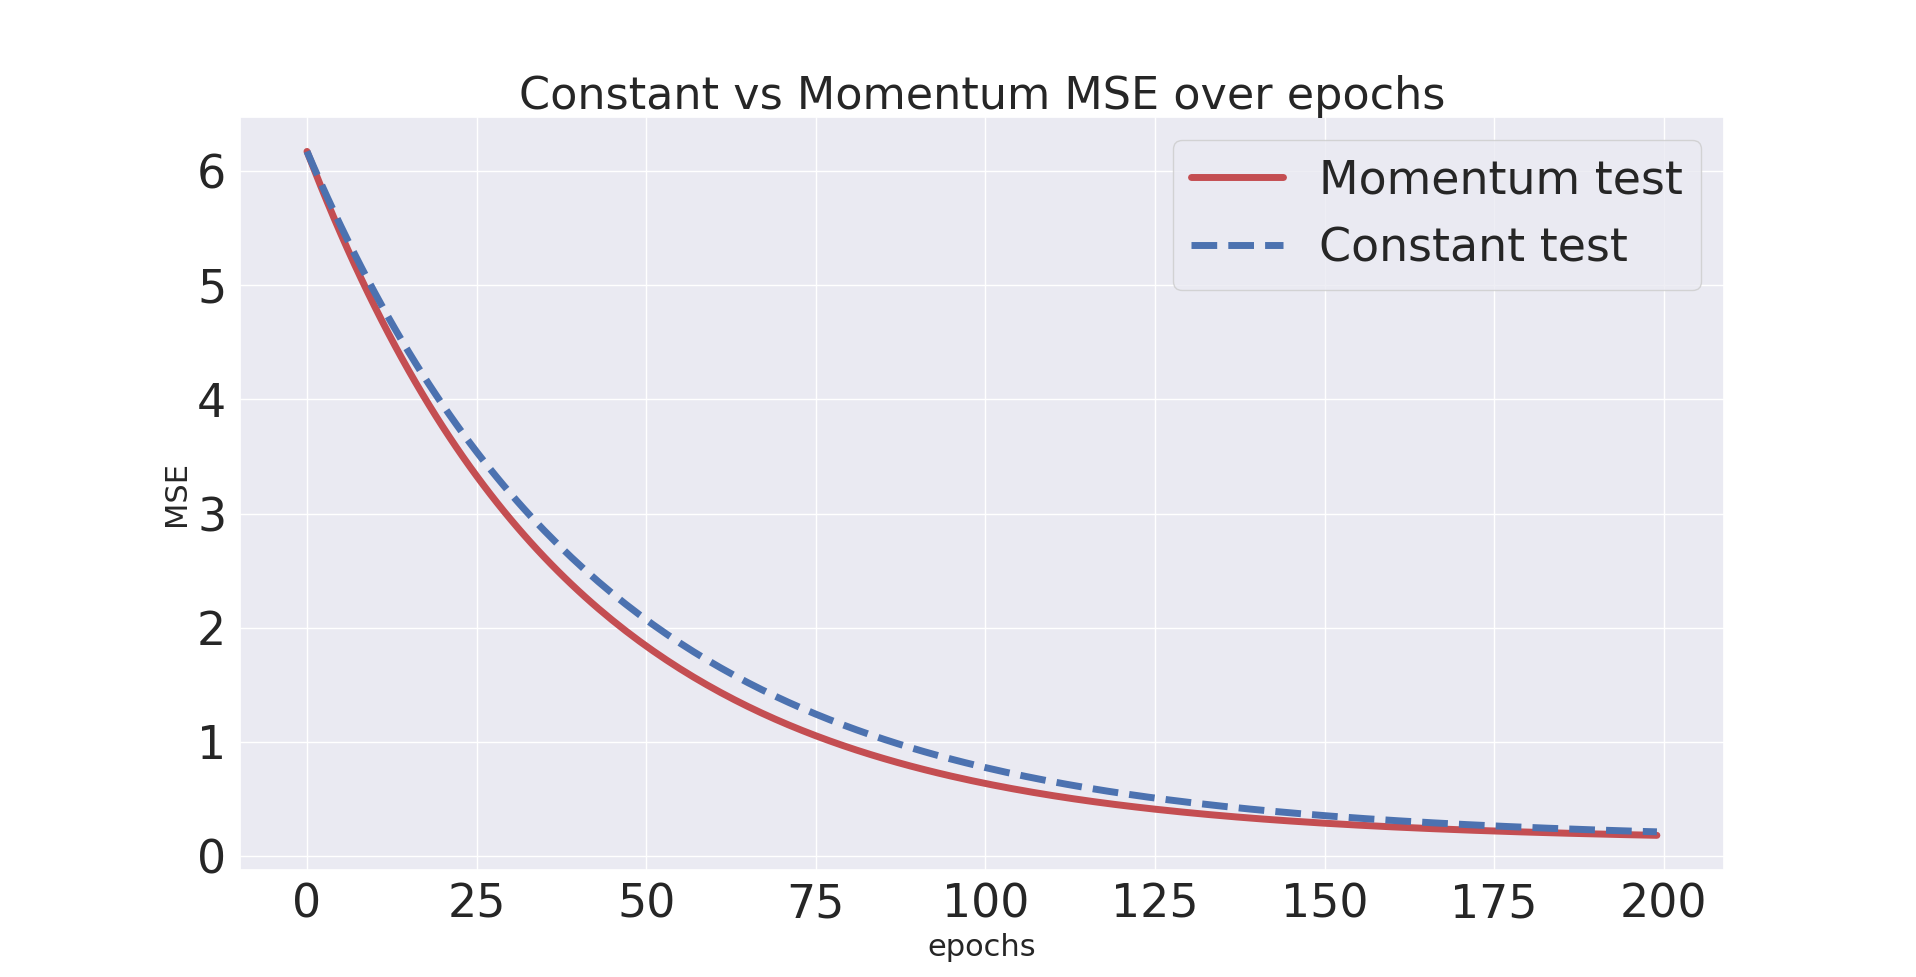
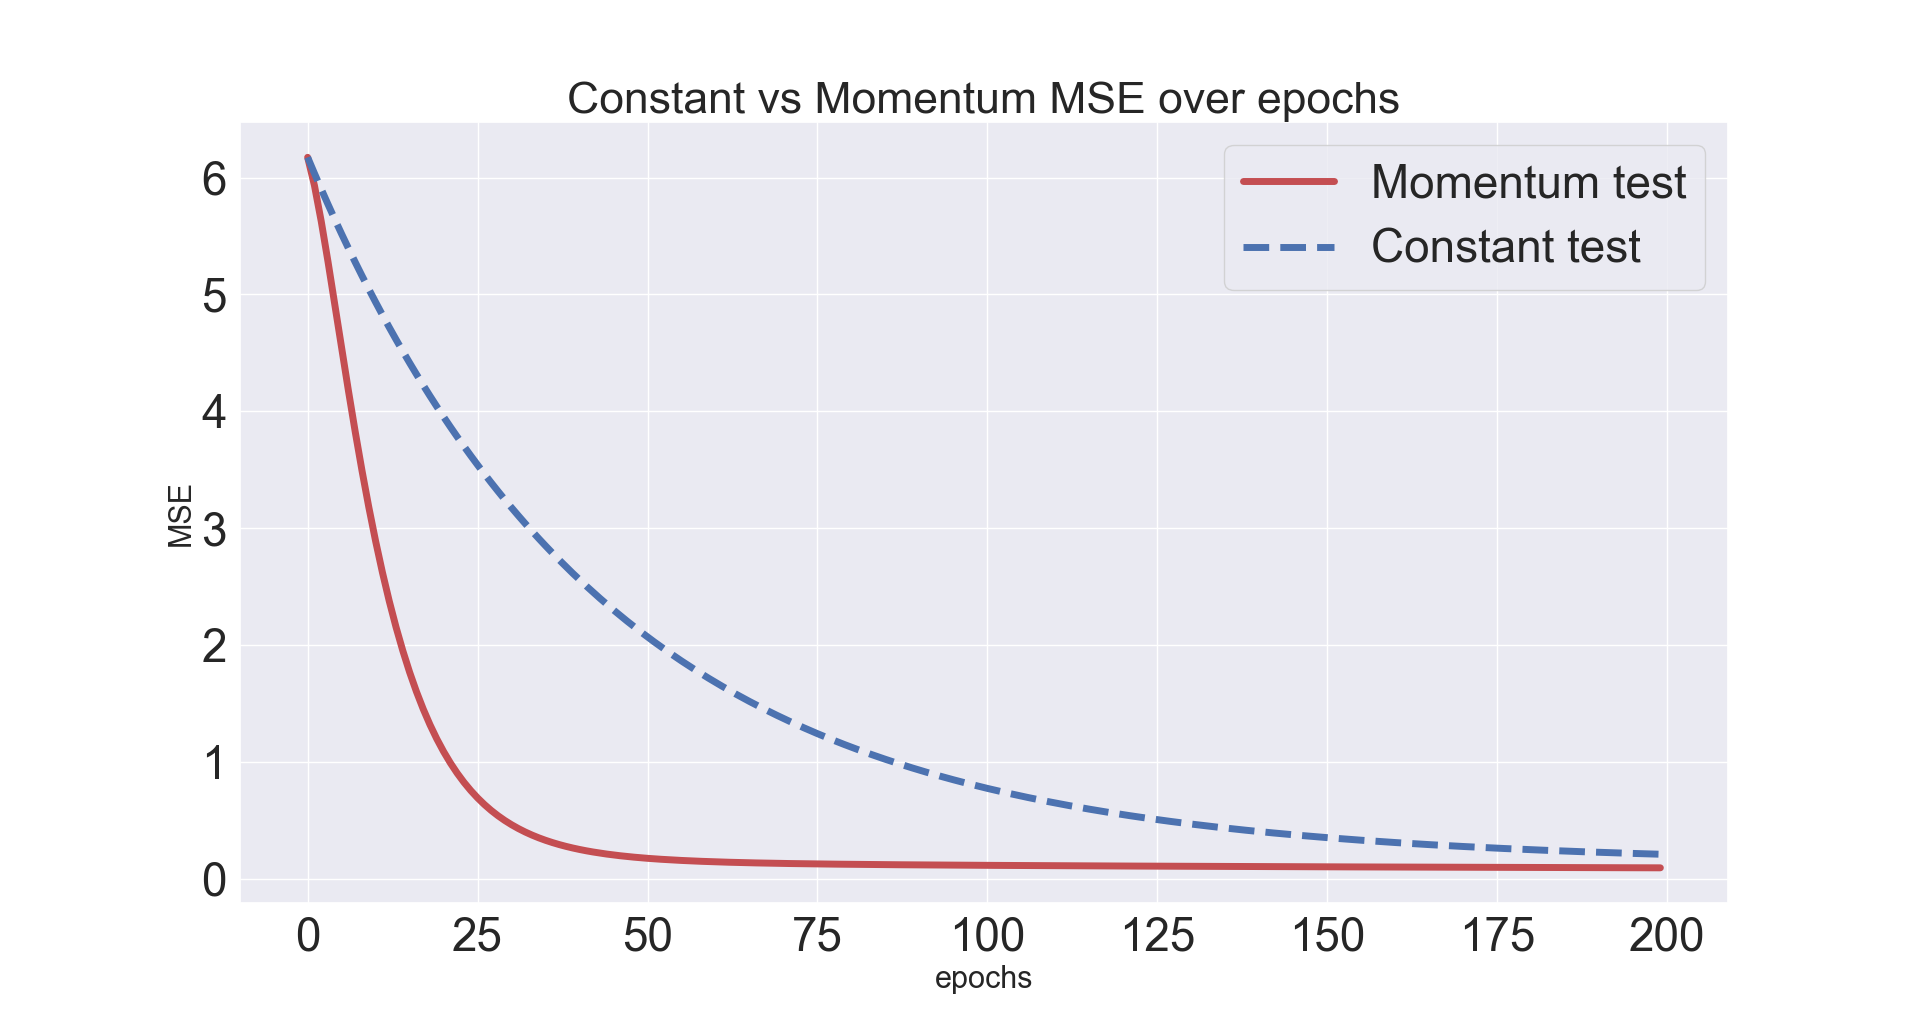
final commit

diff --git a/src/task_d_digits.py b/src/task_d_digits.py
@@ -11,6 +11,9 @@ from sklearn.datasets import load_digits
 from sklearn.model_selection import train_test_split, GridSearchCV, KFold
 
 np.random.seed(1337)
+"""
+This script performs multinomial classification using neural networks and logistic regression on the MNIST dataset. Prints scores.
+"""
 
 # read in data
 digits = load_digits()

diff --git a/src/constant_v_momentum.py b/src/constant_v_momentum.py
@@ -39,7 +39,7 @@ lam = np.logspace(-5, -1, 5)
 
 schedulers = [Momentum, Constant]
 constant_params = []
-momentum_params = np.linspace(0, 0.1, 5)
+momentum_params = np.linspace(0, 1, 5)
 params = [momentum_params, constant_params]
 
 # ------------------ Linear Regression NN ------------------
